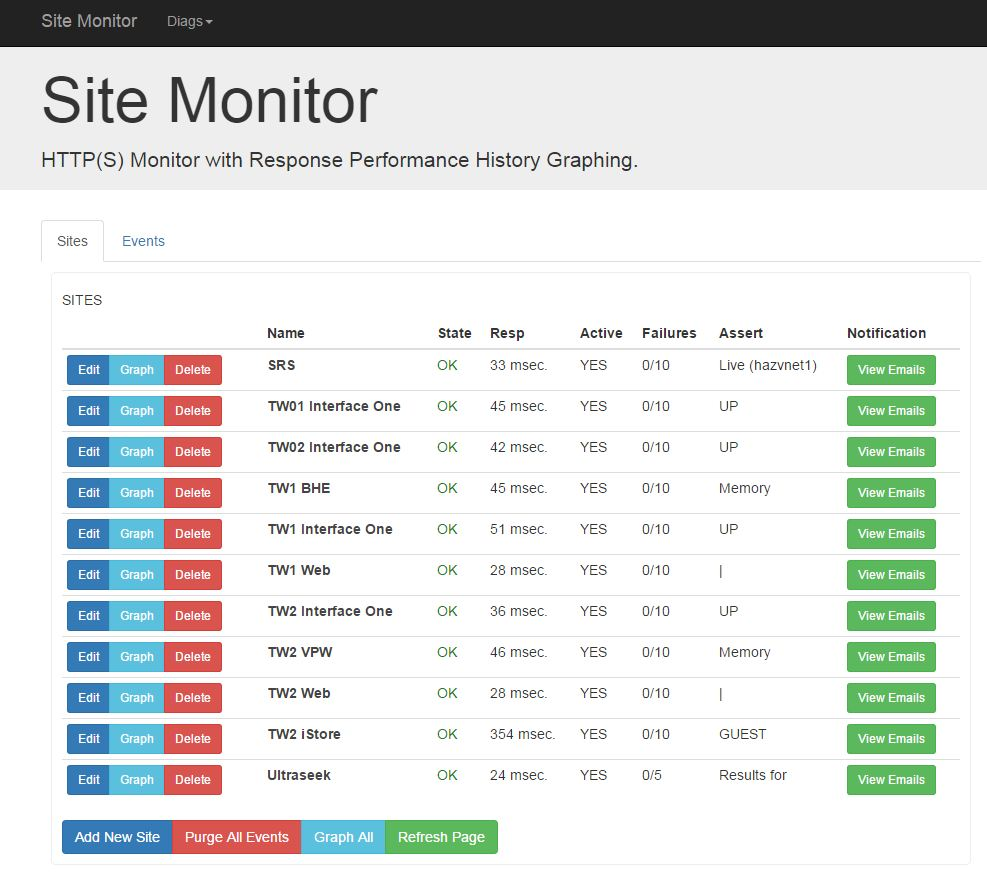
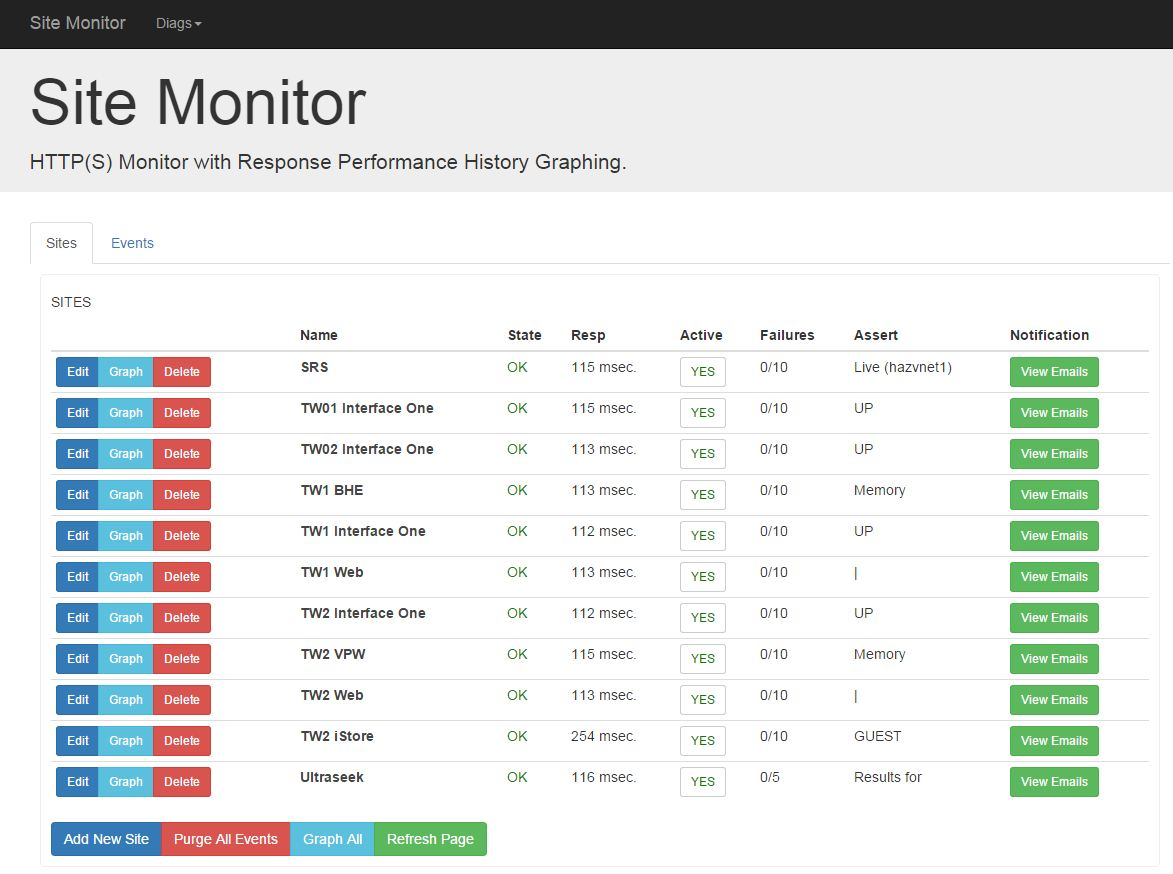
bootstrap integration

diff --git a/src/main/resources/templates/index.html b/src/main/resources/templates/index.html
@@ -172,6 +172,12 @@ $(document).ready(function(){
 	}, 500);
 	$.jqplot.config.enablePlugins = true;
 });
+function toggleActive(id) {
+	$.ajax({
+		url: "[[@{/service/toggleactive/}]]" + id,
+		success: function(json){ window.location = '[[@{/stats}]]'; }
+	});
+}
 function graphSite(id) {
 	try {
 		$("#chartdiv").html('<div style="padding:100px 450px;"><img src="images/ajax-loader.gif"/></div>');
@@ -274,7 +280,9 @@ function loadSites() {
 						'<th scope="row"><a href="'+site.url+'" target="_blank" style="color:#444;text-decoration:none;">'+site.name+'</a></th>'+
 						'<td><span class="status-'+site.status+'">'+site.status+'</span></td>'+
 						'<td>'+site.responseTime+'&nbsp;msec.</td>'+
-						'<td>'+site.active+'</td>'+
+						'<td>'+
+						'<a href="" onclick="toggleActive('+site.identity+');return false;" class="btn btn-sm btn-default active-'+site.active+'">'+site.active+'</a>'+
+						'</td>'+
 						'<td>'+site.failCountDisplay+'</td>'+
 						'<td>'+site.assertText+'</td>'+
 						'<td>'+

diff --git a/src/main/resources/static/css/styles.css b/src/main/resources/static/css/styles.css
@@ -5,6 +5,8 @@ body {
   height:100%;
   margin-bottom: 60px;
 }
+.active-YES { color:green; }
+.active-NO { color:red; }
 .footer {
   position: absolute;
   bottom: 0;

diff --git a/src/main/java/sitemonitor/controller/MonitorController.java b/src/main/java/sitemonitor/controller/MonitorController.java
@@ -69,6 +69,21 @@ public class MonitorController {
 		return result;
 	}
 	
+	@RequestMapping(value = "/toggleactive/{id}", method = RequestMethod.GET)
+	public Map<String,Object> toggleActive(@PathVariable("id") Long id) {
+		if (logger.isDebugEnabled()) {
+			logger.debug("MonitorController.toggleActive(" + id + ")");
+		}
+		
+		Site site = siteRepository.findOne(id);
+		site.toggleActive();
+		siteRepository.save(site);
+		
+		Map<String,Object> result = new HashMap<String,Object>();
+		result.put("success", "true");
+		return result;
+	}
+	
 	@SuppressWarnings("unchecked")
 	@RequestMapping(value = "/chartdata/{id}", method = RequestMethod.GET)
 	public Map<String,Object> chartData(@PathVariable("id") Long id) {

diff --git a/src/main/java/sitemonitor/repository/Site.java b/src/main/java/sitemonitor/repository/Site.java
@@ -40,6 +40,14 @@ public class Site implements Serializable {
 	public Site() {
 	}
 	
+	public void toggleActive() {
+		if ("YES".equals(getActive())) {
+			setActive("NO");
+		} else {
+			setActive("YES");
+		}
+	}
+	
 	public String getNotifyDisplay() {
 		return StringUtils.replace(notify, ",", ", ");
 	}
